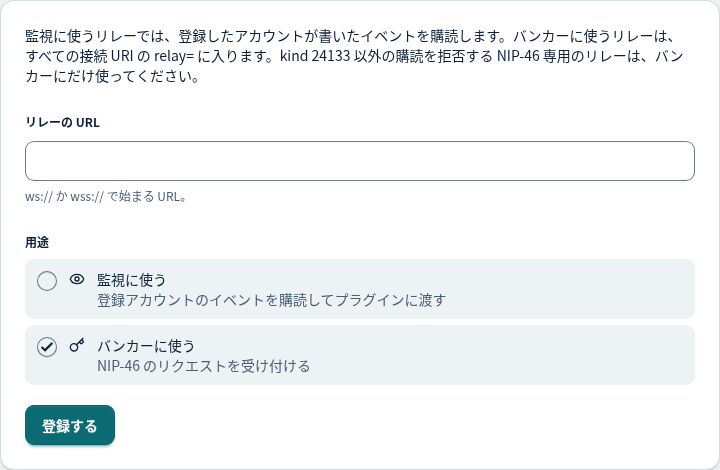
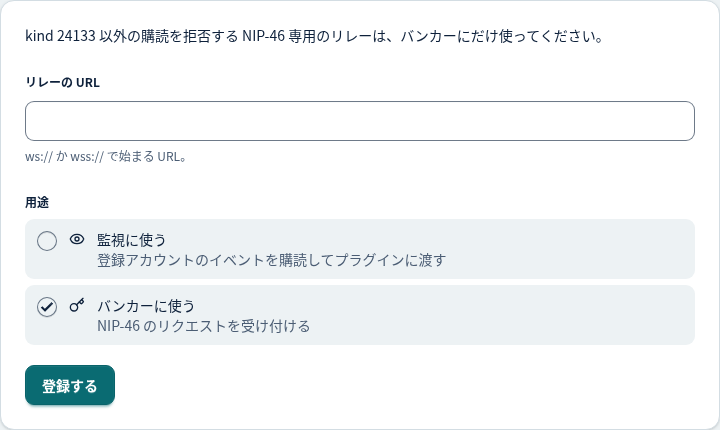
feat: サブページのフォームの中身を公開関数に分け、kind の補足を ⓘ に畳み、段落の補足を 1 行に縮める (#631)
Claude-Session: https://claude.ai/code/session_012o5GMDcQGz5ydeiHabntkz

diff --git a/docs/admin-ui.md b/docs/admin-ui.md
@@ -29,9 +29,9 @@
 
 ## クライアントの接続（`nostrconnect://`）
 
-セッションの節の見出しの「クライアントを接続」（`Connect a client`）から、`/sessions/connect` の画面を開く。クライアントが出した `nostrconnect://` URI を欄に貼り付け、ラベルと省略した npub で並ぶ一覧から署名するアカウントを選んで送信する。URI のリレーはバンカーの用途で登録される（すでに登録済みなら用途を足すだけで、監視の用途は変えない）。アカウントが 0 件のときはフォームの代わりに登録への案内を、一覧を得られないときは理由を出す。
+セッションの節の見出しの「クライアントを接続」（`Connect a client`）から、`/sessions/connect` の画面を開く。クライアントが出した `nostrconnect://` URI を欄に貼り付け、ラベルと省略した npub で並ぶ一覧から署名するアカウントを選んで送信する。URI の欄の下には「nostrconnect:// で始まる URI。」の補足が出る。URI のリレーはバンカーの用途で登録される（すでに登録済みなら用途を足すだけで、監視の用途は変えない）。アカウントが 0 件のときはフォームの代わりに登録への案内を、一覧を得られないときは理由を出す。
 
-承認済みのセッションの行の「権限を編集」（`Edit permissions`）からは、`/sessions/<signer>/<client>/permissions` の画面でそのセッションの `perms` を書き換えられる。フォームには署名（`sign_event`）・NIP-44 の暗号化（`nip44_encrypt`）・復号（`nip44_decrypt`）を許すかの 3 つのチェックと、署名を許可しないときだけ使う kind の欄（カンマ区切り）が並ぶ。このフォームが扱わない宣言（`connect` で送られた未知のトークンなど）は、そのほかの宣言として読み取り専用のチップで示し、保存の値の末尾にそのまま残す。この画面からはすべての操作を拒否する設定はできず、そうしたいときは「承認を取り消す」（`Revoke`）を使う。保存の結果は、入力の誤りが 400、書き込まれていないことが確定したときが 409、バンカーが受け付けられないとき・反映されたか分からないとき・セッションの一覧を得られないときが 503 で、成功は 303 でダッシュボードへ戻す。
+承認済みのセッションの行の「権限を編集」（`Edit permissions`）からは、`/sessions/<signer>/<client>/permissions` の画面でそのセッションの `perms` を書き換えられる。フォームには署名（`sign_event`）・NIP-44 の暗号化（`nip44_encrypt`）・復号（`nip44_decrypt`）を許すかの 3 つのチェックと、署名を許可しないときだけ使う kind の欄（カンマ区切り）が並ぶ。kind の欄の使い方は、見出しの横の ⓘ のボタン（「補足を表示」（`Show help`））で開く補足に出る。補足は閉じていても欄の説明として読み上げられ、マウスを重ねただけでは開かない。kind 24133 を常に拒否する注意は、署名のチェックの下に畳まずに出す。このフォームが扱わない宣言（`connect` で送られた未知のトークンなど）は、そのほかの宣言として読み取り専用のチップで示し、保存の値の末尾にそのまま残す。この画面からはすべての操作を拒否する設定はできず、そうしたいときは「承認を取り消す」（`Revoke`）を使う。保存の結果は、入力の誤りが 400、書き込まれていないことが確定したときが 409、バンカーが受け付けられないとき・反映されたか分からないとき・セッションの一覧を得られないときが 503 で、成功は 303 でダッシュボードへ戻す。
 
 送信の結果は次のように見える。
 
@@ -48,7 +48,7 @@
 
 ## リレーの追加
 
-リレーの節の見出しの「追加」（`Add`）から、`/relays/new` の画面で登録する。URL の欄には `ws://` か `wss://` で始まりホストを含む URL を、前後の空白を除いて保存する（貼り付けで混ざりやすい前後の空白だけを除き、末尾の `/` や大文字と小文字は変えない）。用途（監視、バンカー）は、アイコンと語と用途の説明が並ぶ 1 行ずつのチェックで選ぶ。既定ではバンカーだけにチェックが入っており、少なくとも一方を選ぶ必要がある。登録すると DB に書き込んでから接続を開くので、再起動しなくても反映される。
+リレーの節の見出しの「追加」（`Add`）から、`/relays/new` の画面で登録する。URL の欄には `ws://` か `wss://` で始まりホストを含む URL を、前後の空白を除いて保存する（貼り付けで混ざりやすい前後の空白だけを除き、末尾の `/` や大文字と小文字は変えない）。用途（監視、バンカー）は、アイコンと語と用途の説明が並ぶ 1 行ずつのチェックで選ぶ。フォームの上には NIP-46 専用のリレーをバンカーにだけ使うよう促す 1 行が、URL の欄の下には「ws:// か wss:// で始まる URL。」の補足が出る。既定ではバンカーだけにチェックが入っており、少なくとも一方を選ぶ必要がある。登録すると DB に書き込んでから接続を開くので、再起動しなくても反映される。
 
 送信の結果は次のように見える。
 
@@ -62,7 +62,7 @@
 
 ## リレーの用途の編集と削除
 
-各行の「用途を編集」（`Edit roles`）と「リレーを削除」（`Delete relay`）から、`/relays/<id>/edit` と `/relays/<id>/delete` の画面を開く。`<id>` は DB の行の id で、URL は変えられない（別の URL に変えるときは、追加してから削除する）。編集で変えられるのは用途（監視、バンカー）だけで、両方を外した送信は保存しない。編集の画面の用途の行には、その用途の今の接続状態のバッジが付く（接続の状態を得られないときは付かない）。編集の画面には「削除」（`Delete`）のボタンも置く。削除は確認のページを経てから実行する。どちらも DB に書いてから接続を変えるので、再起動しなくても反映される。
+各行の「用途を編集」（`Edit roles`）と「リレーを削除」（`Delete relay`）から、`/relays/<id>/edit` と `/relays/<id>/delete` の画面を開く。`<id>` は DB の行の id で、URL は変えられない（別の URL に変えるときは、追加してから削除する）。編集で変えられるのは用途（監視、バンカー）だけで、両方を外した送信は保存しない。編集の画面の用途の行には、その用途の今の接続状態のバッジが付く（接続の状態を得られないときは付かない）。編集の画面には「削除」（`Delete`）のボタンも置く。編集と削除の画面では、バンカーの用途を外す（削除ではバンカーに使っていた）とそのリレーだけで接続しているクライアントが応答を受け取れなくなることの説明を、フォームの上に畳まずに出す。削除は確認のページを経てから実行する。どちらも DB に書いてから接続を変えるので、再起動しなくても反映される。
 
 結果は次のように見える。
 
